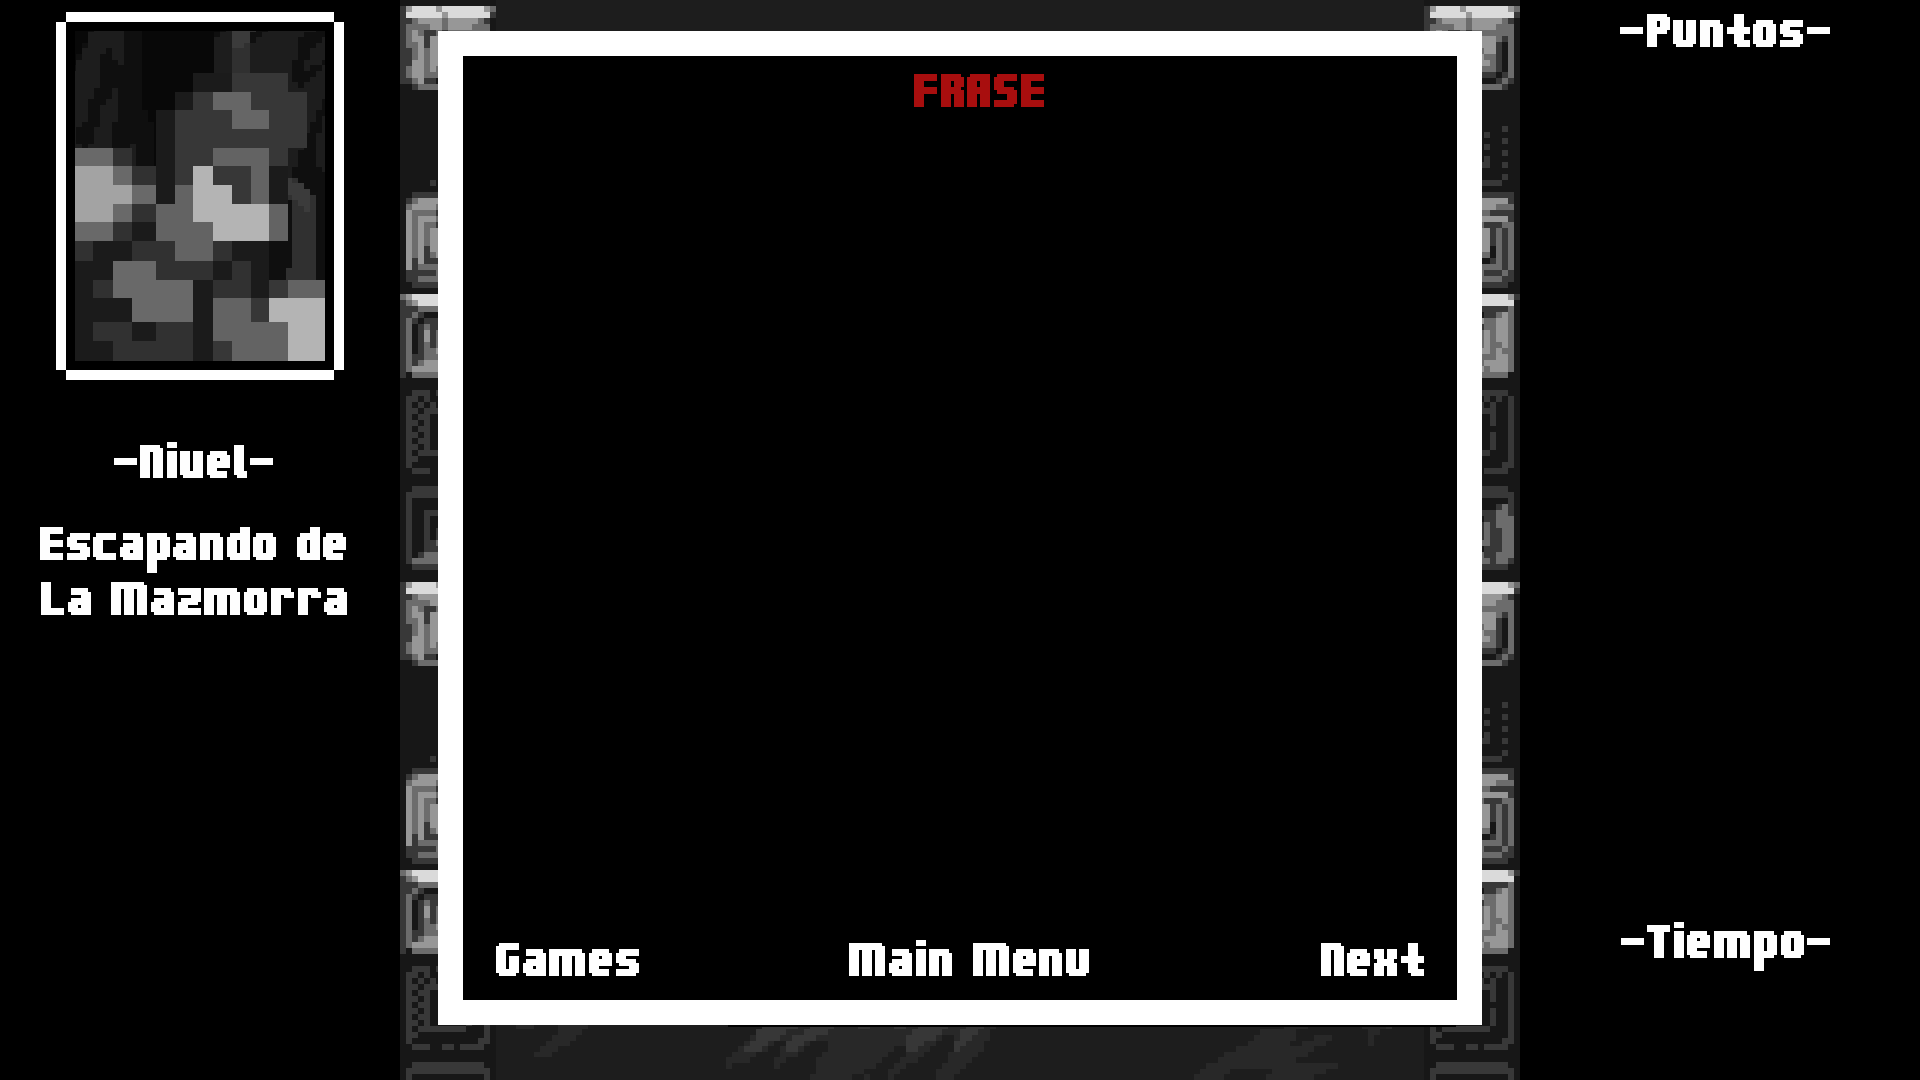
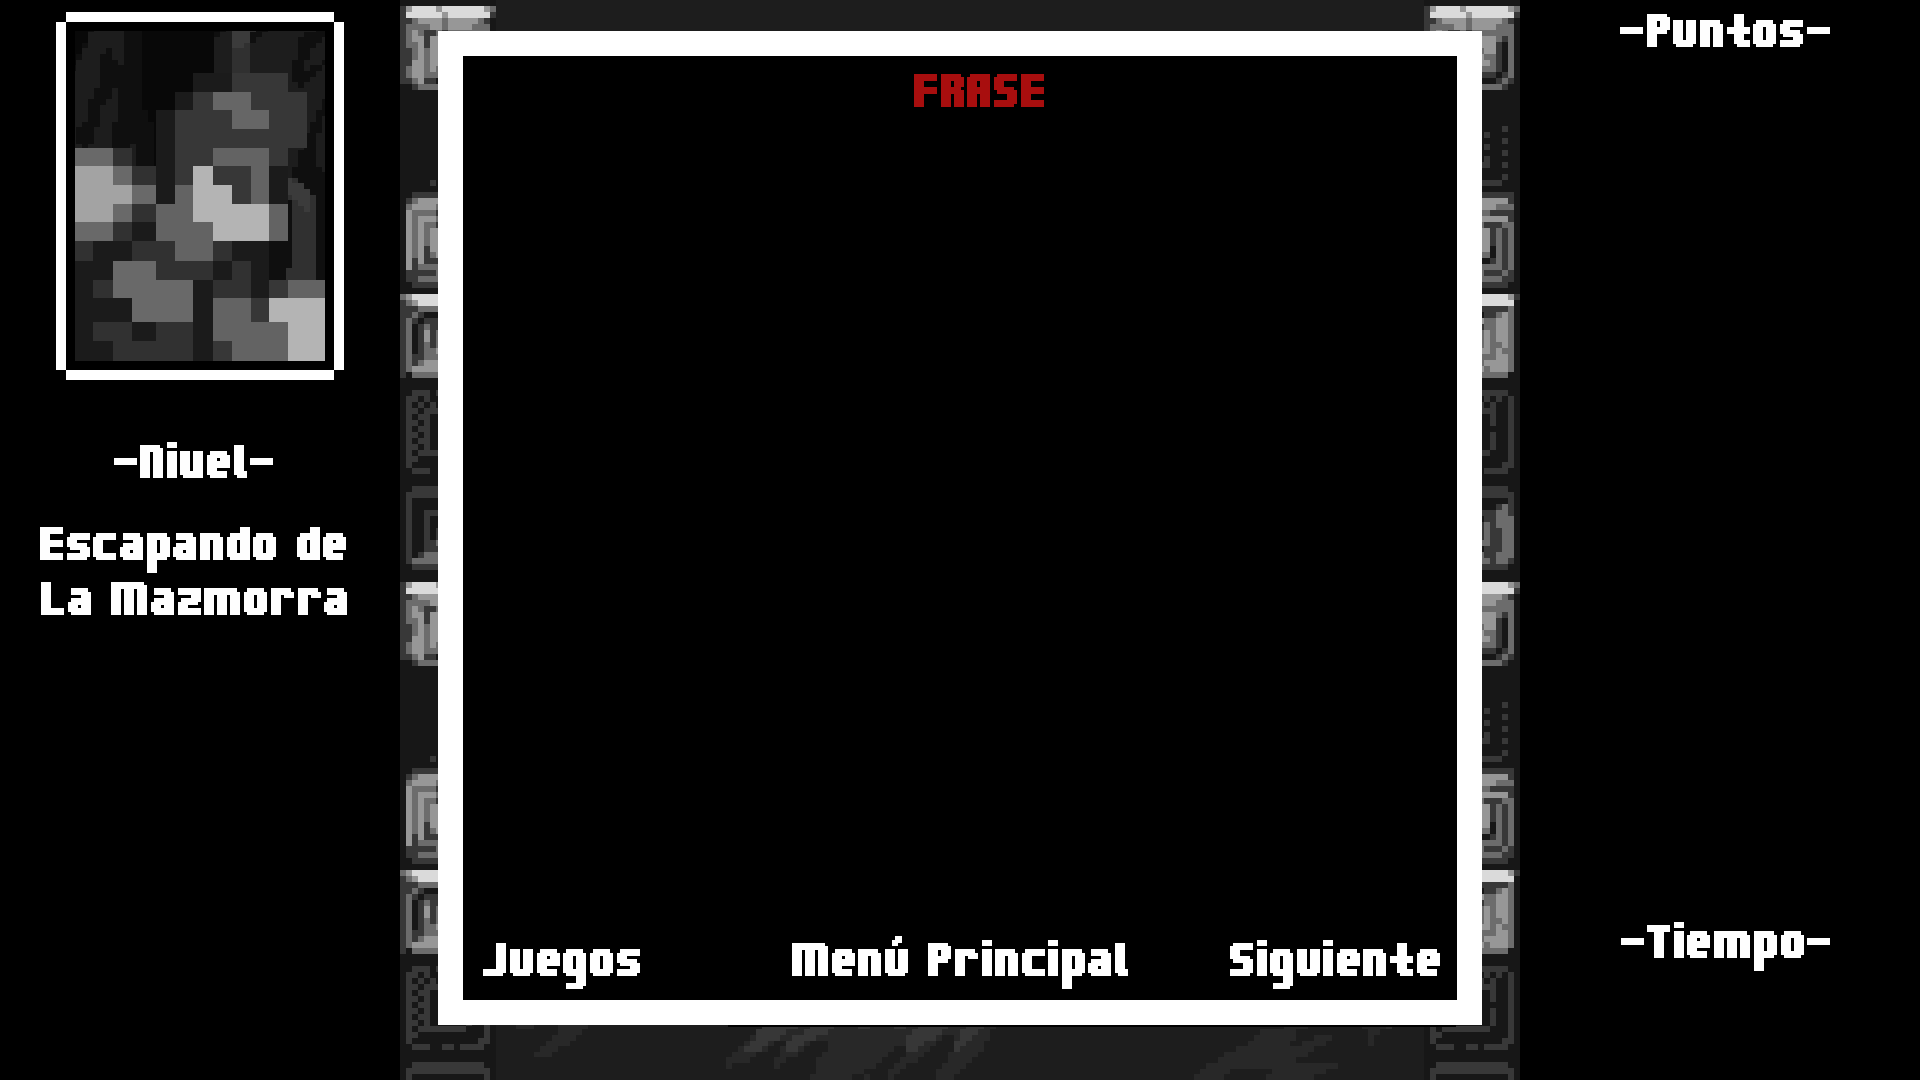
gameSergi

Changed region(s): [[0.4062, 0.8556, 0.5938, 0.9167], [0.625, 0.8556, 0.75, 0.9167], [0.25, 0.8556, 0.3125, 0.9167]]

diff --git a/menuGames/games/game4Sergi/style/game4Style.css b/menuGames/games/game4Sergi/style/game4Style.css
@@ -64,10 +64,10 @@
 
 .Games {
   display: block;
-  width: 143px;
-  height: 34px;
-  top: 942px;
-  left: 496px;
+  width: 157px;
+  height: 46px;
+  top: 943px;
+  left: 483px;
   background-color: transparent;
   background-repeat: no-repeat;
   border: none;
@@ -79,10 +79,10 @@
 
 .MainMenu {
   display: block;
-  width: 240px;
-  height: 36px;
-  top: 940px;
-  left: 849px;
+  width: 336px;
+  height: 53px;
+  top: 936px;
+  left: 792px;
   background-color: transparent;
   background-repeat: no-repeat;
   border: none;
@@ -94,10 +94,10 @@
 
 .Next {
   display: block;
-  width: 103px;
-  height: 34px;
-  top: 942px;
-  left: 1321px;
+  width: 210px;
+  height: 49px;
+  top: 940px;
+  left: 1230px;
   background-color: transparent;
   background-repeat: no-repeat;
   border: none;
@@ -114,27 +114,12 @@
   height: 1080px;
 }
 
-.TryAgainGames {
-  display: block;
-  width: 213px;
-  height: 49px;
-  top: 800px;
-  left: 600px;
-  background-color: transparent;
-  background-repeat: no-repeat;
-  border: none;
-  cursor: pointer;
-  overflow: hidden;
-  outline: none;
-  position: absolute;
-}
-
 .TryAgainOption {
   display: block;
-  width: 213px;
-  height: 49px;
-  top: 872px;
-  left: 854px;
+  width: 430px;
+  height: 33px;
+  top: 873px;
+  left: 745px;
   background-color: transparent;
   background-repeat: no-repeat;
   border: none;
@@ -146,10 +131,10 @@
 
 .TryAgainMainMenu {
   display: block;
-  width: 240px;
-  height: 36px;
-  top: 952px;
-  left: 840px;
+  width: 336px;
+  height: 53px;
+  top: 948px;
+  left: 792px;
   background-color: transparent;
   background-repeat: no-repeat;
   border: none;
@@ -227,4 +212,25 @@
   background-image: url(../media/FRASE/E_item.png);
   position: absolute;
   background-repeat: no-repeat;
+}
+
+#F {
+  position: absolute;
+  background-image: url(../media/FRASE/F.png);
+}
+#R {
+  position: absolute;
+  background-image: url(../media/FRASE/R.png);
+}
+#A {
+  position: absolute;
+  background-image: url(../media/FRASE/A.png);
+}
+#S {
+  position: absolute;
+  background-image: url(../media/FRASE/S.png);
+}
+#E {
+  position: absolute;
+  background-image: url(../media/FRASE/E.png);
 }

diff --git a/menuGames/games/game4Sergi/game4Sergi.html b/menuGames/games/game4Sergi/game4Sergi.html
@@ -15,11 +15,11 @@
     <div id="timer"></div>
     <div class="modal" id="myModal">
         <div class="modal-content">
-            <img id="F" src="media/FRASE/F.png">
-            <img id="R" src="media/FRASE/R.png">
-            <img id="A" src="media/FRASE/A.png">
-            <img id="S" src="media/FRASE/S.png">
-            <img id="E" src="media/FRASE/E.png">
+            <img id="F">
+            <img id="R">
+            <img id="A">
+            <img id="S">
+            <img id="E">
             <a type="button" class="Games" href="/Project1.github.io/menuGames/menus/gamesMenu.html"></a>
             <a type="button" class="MainMenu" href="/Project1.github.io/menuGames/menus/mainMenu.html"></a>
             <a type="button" class="Next" href="/Project1.github.io/menuGames/menus/finish.html"></a>

diff --git a/menuGames/games/game4Sergi/js/game4JS.js b/menuGames/games/game4Sergi/js/game4JS.js
@@ -37,8 +37,8 @@ document.addEventListener("DOMContentLoaded", () => {
   let isGoingRight = false;
   let leftTimerId;
   let rightTimerId;
-  let minute = 1;
-  let seconds = 00;
+  let minute = 0;
+  let seconds = 01;
   //Variables
   //AIR
   //AIR
